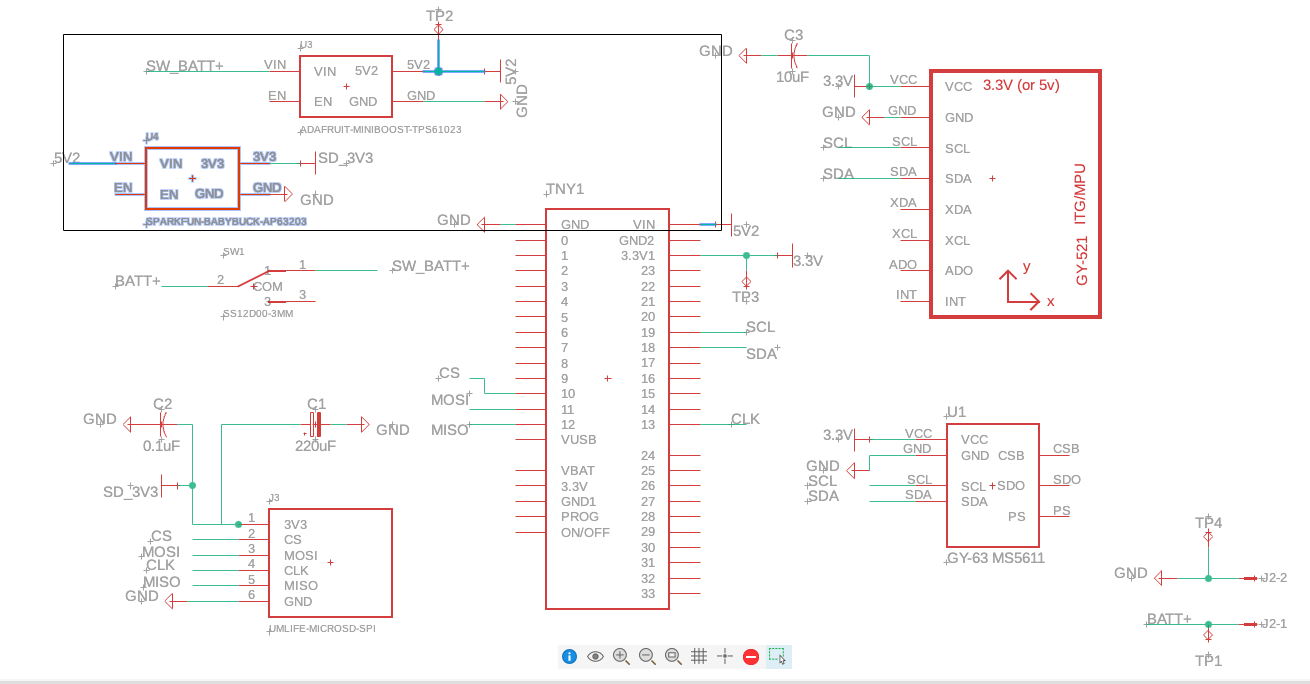
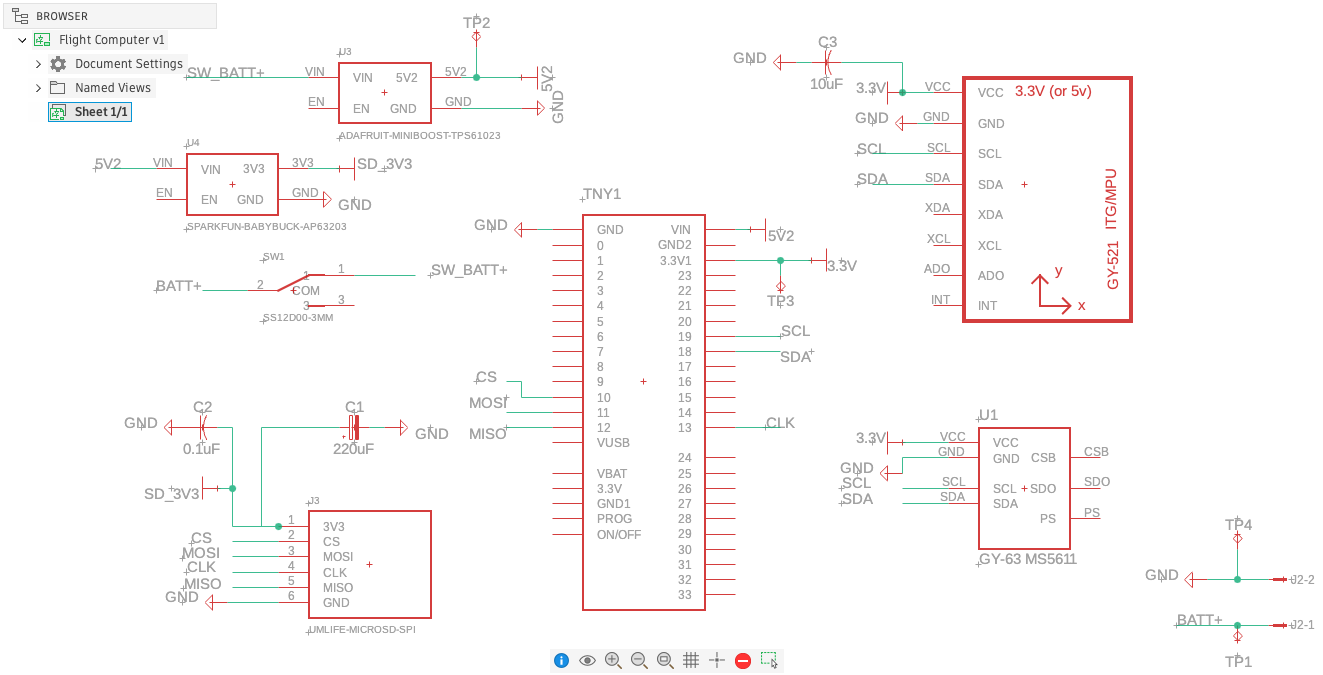
Replace design previews with clearer supplied Fusion screenshots

diff --git a/docs/flying-blind.html b/docs/flying-blind.html
@@ -7,7 +7,7 @@
 <article><span class="version">V3</span><h3>Custom PCB</h3><p>Teensy 4.0, a schematic and PCB laid out in Autodesk Fusion, soldered breakout boards, battery power, and an on/off switch.</p><p class="small">Learning circuit layout and mechanical integration.</p></article>
 <article><span class="version">Next</span><h3>TVC electronics</h3><p>Teensy 4.1, upgraded components, servo connections, and lights and buttons for feedback and input.</p><p class="small">In development; software revisions are ongoing.</p></article></div></section>
 <section class="wrap section"><div class="photo-pair"><figure class=""><img src="assets/v3-detail2.jpg" alt="Component side of the unpopulated Flying Blind V3 PCB" loading="lazy" width="900" height="1200"><figcaption>V3 PCB component layout before assembly.</figcaption></figure><figure class=""><img src="assets/v3-detail.jpg" alt="Trace side of the Flying Blind V3 PCB" loading="lazy" width="900" height="1200"><figcaption>The reverse side shows the routed connections and soldered joints.</figcaption></figure></div><div class="prose"><h2>Making an avionics sled</h2><p>For V3, I made a 3D-printed electronics-bay sled to hold the computer inside the Green Eggs test rocket. This connected the circuit-board work to a physical integration problem: fitting and mounting the computer inside the rocket.</p></div></section>
-<section class="wrap section" id="design-files"><p class="eyebrow">Design evidence / Source downloads</p><h2>Schematics and PCB layouts</h2><p class="prose">These are the supplied Autodesk Fusion design snapshots. Each full archive contains the schematic and PCB; the individual documents below were extracted from those archives. The TVC computer remains in development.</p><h3>Flying Blind V3</h3><figure class="design-image"><a href="assets/flying-blind-v3-schematic.png"><img src="assets/flying-blind-v3-schematic.png" alt="Flying Blind V3 schematic showing the Teensy, sensors, microSD connections, and power circuitry" loading="lazy" width="1310" height="684"></a><figcaption>V3 schematic. Open the image for a larger view; the PCB photographs above show the manufactured board.</figcaption></figure><div class="evidence-links"><a href="evidence/flying-blind-v3-fusion.f3z" download>V3 complete Fusion archive</a><a href="evidence/flying-blind-v3.fsch" download>V3 Fusion schematic</a><a href="evidence/flying-blind-v3.fbrd" download>V3 Fusion PCB</a><a href="evidence/flying-blind-v3.sch" download>V3 schematic XML (.sch)</a><a href="evidence/flying-blind-v3.brd" download>V3 board XML (.brd)</a></div><h3 class="design-subheading">TVC flight computer</h3><div class="photo-pair design-pair"><figure><a href="assets/flying-blind-tvc-pcb-top.png"><img src="assets/flying-blind-tvc-pcb-top.png" alt="Top view of the TVC flight computer PCB showing traces, pads, and component labels" loading="lazy" width="5584" height="2640"></a><figcaption>TVC PCB top view from the supplied board production package. Open the image to inspect details.</figcaption></figure><figure><a href="assets/flying-blind-tvc-pcb-bottom.png"><img src="assets/flying-blind-tvc-pcb-bottom.png" alt="Bottom view of the TVC flight computer PCB routing" loading="lazy" width="5584" height="2640"></a><figcaption>TVC PCB bottom view from the same package.</figcaption></figure></div><figure class="schematic-preview"><img src="assets/flying-blind-tvc-schematic-preview.png" alt="Overview thumbnail of the TVC schematic extracted from its Fusion document" loading="lazy" width="256" height="256"><figcaption>TVC schematic thumbnail embedded in the Fusion archive. Download the schematic below for full detail.</figcaption></figure><div class="evidence-links"><a href="evidence/flying-blind-tvc-fusion.f3z" download>TVC complete Fusion archive</a><a href="evidence/flying-blind-tvc.fsch" download>TVC Fusion schematic</a><a href="evidence/flying-blind-tvc.fbrd" download>TVC Fusion PCB</a><a href="evidence/flying-blind-tvc.sch" download>TVC schematic XML (.sch)</a><a href="evidence/flying-blind-tvc.brd" download>TVC board XML (.brd)</a><a href="evidence/flying-blind-tvc-gerbers.zip" download>TVC PCB Gerber and drill files</a></div></section>
+<section class="wrap section" id="design-files"><p class="eyebrow">Design evidence / Source downloads</p><h2>Schematics and PCB layouts</h2><p class="prose">These are the supplied Autodesk Fusion design snapshots. Each full archive contains the schematic and PCB; the individual documents below were extracted from those archives. The TVC computer remains in development.</p><h3>Flying Blind V3</h3><figure class="design-image"><a href="assets/flying-blind-v3-schematic.png"><img src="assets/flying-blind-v3-schematic.png" alt="Flying Blind V3 schematic showing the Teensy, sensors, microSD connections, and power circuitry" loading="lazy" width="1323" height="683"></a><figcaption>V3 schematic in Autodesk Fusion. Select the image to open it at full size.</figcaption></figure><figure class="design-image"><a href="assets/flying-blind-v3-pcb.png"><img src="assets/flying-blind-v3-pcb.png" alt="Flying Blind V3 PCB layout in Autodesk Fusion showing traces, pads, and component placement" loading="lazy" width="798" height="514"></a><figcaption>V3 PCB layout in Autodesk Fusion. Select the image to open it at full size.</figcaption></figure><div class="evidence-links"><a href="evidence/flying-blind-v3-fusion.f3z" download>V3 complete Fusion archive</a><a href="evidence/flying-blind-v3.fsch" download>V3 Fusion schematic</a><a href="evidence/flying-blind-v3.fbrd" download>V3 Fusion PCB</a><a href="evidence/flying-blind-v3.sch" download>V3 schematic XML (.sch)</a><a href="evidence/flying-blind-v3.brd" download>V3 board XML (.brd)</a></div><h3 class="design-subheading">TVC flight computer</h3><figure class="design-image"><a href="assets/flying-blind-tvc-schematic.png"><img src="assets/flying-blind-tvc-schematic.png" alt="TVC flight computer schematic in Autodesk Fusion showing Teensy 4.1, sensors, power circuitry, status LEDs, and servo connectors" loading="lazy" width="943" height="682"></a><figcaption>TVC schematic in Autodesk Fusion. Select the image to open it at full size.</figcaption></figure><figure class="design-image"><a href="assets/flying-blind-tvc-pcb.png"><img src="assets/flying-blind-tvc-pcb.png" alt="TVC flight computer PCB layout in Autodesk Fusion showing routing, Teensy 4.1 placement, sensors, and servo connections" loading="lazy" width="1318" height="650"></a><figcaption>TVC PCB layout in Autodesk Fusion. Select the image to open it at full size.</figcaption></figure><div class="evidence-links"><a href="evidence/flying-blind-tvc-fusion.f3z" download>TVC complete Fusion archive</a><a href="evidence/flying-blind-tvc.fsch" download>TVC Fusion schematic</a><a href="evidence/flying-blind-tvc.fbrd" download>TVC Fusion PCB</a><a href="evidence/flying-blind-tvc.sch" download>TVC schematic XML (.sch)</a><a href="evidence/flying-blind-tvc.brd" download>TVC board XML (.brd)</a><a href="evidence/flying-blind-tvc-gerbers.zip" download>TVC PCB Gerber and drill files</a></div></section>
 <section class="wrap section"><div class="lesson"><p class="eyebrow">Flight test / What happened</p><h2>The rocket flew. The logger didn’t record.</h2><p>I flew the Green Eggs rocket carrying Flying Blind V3. After powering on the computer, we needed to reset the software to prepare it for recording. We missed that step, and no flight data was collected.</p><p>For the next attempt, our revised preflight procedure will include the reset and a check that logging has started before launch.</p></div></section>
 <section class="wrap section split"><div><h2>Evidence and current limits</h2></div><div class="prose"><p>The available LOG007 file is a bench/movement recording. It demonstrates recorded sensor output, but it does not show performance during rocket flight. The viewer’s simulated flight is a separate synthetic dataset.</p><div class="evidence-links"><a href="evidence/bench-log.csv" download>Download LOG007 bench recording (CSV)</a></div><p>Current software revisions are being completed and pushed separately. <a href="https://github.com/luna-dales/space-why">Visit the project repository</a> for the evolving codebase.</p></div></section>
 <section class="wrap next"><p class="eyebrow">Next test</p><h2>A flight with verified logging</h2><p>Repeat the Green Eggs flight, confirm recording before launch, and preserve the raw log for analysis. The next attempt is planned for October 10–11, weather permitting.</p><a href="tvc.html">Explore the TVC platform</a></section></main><footer><div><strong>Space Why?</strong><p>Luna Dales / Aerospace engineering</p></div><div><a href="https://github.com/luna-dales/space-why">Project repository</a><p>Project status as of October 6, 2026</p><p>Website developed with help from AI for writing, coding, and layout.</p></div></footer></body></html>

diff --git a/docs/style.css b/docs/style.css
@@ -1,3 +1,5 @@
 :root{--ink:#122335;--muted:#46576a;--blue:#005e9c;--line:#cdd8e2;--paper:#fff;--pale:#eef4f8;--dark:#122335;color-scheme:light}*{box-sizing:border-box}html{scroll-behavior:smooth;scroll-padding-top:1rem}body{margin:0;background:var(--paper);color:var(--ink);font-family:-apple-system,BlinkMacSystemFont,"Segoe UI",sans-serif;font-size:1.0625rem;line-height:1.65}a{color:var(--blue);text-underline-offset:.2em}a:hover{text-decoration-thickness:2px}a:focus-visible,button:focus-visible{outline:3px solid #df7900;outline-offset:5px}img{display:block;max-width:100%;height:auto}h1,h2,h3,p{margin-top:0}h1,h2,h3{line-height:1.12;letter-spacing:-.025em}h1,h2{font-family:Georgia,"Times New Roman",serif;font-weight:400}h1{font-size:clamp(3rem,7vw,6.3rem);margin-bottom:1.3rem}h2{font-size:clamp(2rem,3.8vw,3rem);margin-bottom:1.5rem}h3{font-size:1.45rem;margin-bottom:1rem}p{margin-bottom:1.3rem}.wrap{width:min(1160px,calc(100% - 64px));margin-inline:auto}.skip{position:absolute;top:-80px;left:16px;padding:12px;background:#fff;z-index:100}.skip:focus{top:12px}.site-header{border-bottom:1px solid var(--line)}.header-inner{width:min(1280px,calc(100% - 64px));margin:auto;display:flex;align-items:center;justify-content:space-between;gap:2rem;padding:23px 0}.brand{font-size:1.35rem;font-weight:750;text-decoration:none;color:var(--ink);line-height:1.25}.brand span{display:block;font-size:.875rem;font-weight:400;color:var(--muted);margin-top:5px}nav{display:flex;gap:1.75rem;align-items:center;flex-wrap:wrap}nav a{font-size:.9375rem;color:var(--muted);text-decoration:none;padding:6px 0}nav a[aria-current]{color:var(--ink);box-shadow:0 2px 0 var(--blue);font-weight:650}.eyebrow{display:block;font-size:.875rem;line-height:1.6;font-weight:650;letter-spacing:.075em;text-transform:uppercase;color:var(--blue);margin-bottom:1rem}.hero{display:grid;grid-template-columns:1.1fr .9fr;gap:6%;align-items:center;padding-block:55px}.hero-copy{padding-block:1rem}.intro{font-size:clamp(1.3rem,2.2vw,1.8rem);line-height:1.4;max-width:760px}.hero-copy>p:not(.eyebrow){max-width:590px}.button{display:inline-block;padding:13px 22px;background:var(--ink);color:#fff;text-decoration:none;border:1px solid var(--ink);font-weight:650;margin-top:9px}.button:hover{background:var(--blue)}figure{margin:0}figure img{width:100%;height:500px;object-fit:cover;background:var(--pale)}figcaption{font-size:.875rem;line-height:1.5;color:var(--muted);margin-top:11px}.hero-image img{height:510px;object-position:center 45%}.band{background:var(--pale);border-block:1px solid var(--line)}.status-grid{display:grid;grid-template-columns:repeat(3,1fr);gap:3rem;padding-block:28px}.status-grid .eyebrow{font-size:.8125rem;margin-bottom:5px}.status-grid strong{font-size:1.1rem;display:block}.status-grid p{margin:4px 0 0;font-size:.875rem;color:var(--muted)}.section{padding-block:64px;border-bottom:1px solid var(--line)}.section-heading{max-width:760px;margin-bottom:35px}.project-grid{display:grid;grid-template-columns:repeat(3,1fr);gap:28px}.project{color:var(--ink);text-decoration:none;display:block}.project img{width:100%;height:270px;object-fit:cover}.project>div{padding-top:24px}.project .eyebrow{font-size:.8125rem}.project p{color:var(--muted);font-size:1rem}.text-link{font-weight:650;text-decoration:underline;text-underline-offset:.25em}.project:hover h3{text-decoration:underline}.split{display:grid;grid-template-columns:1fr 1.2fr;gap:8%;align-items:start}.prose{max-width:760px}.prose p:last-child{margin-bottom:0}.dark-section{background:var(--dark);color:#fff;padding-block:64px}.dark-section .eyebrow{color:#aee3ff}.dark-section p{color:#e0ebf3}.small{font-size:.9375rem}.next{padding-block:55px;max-width:1160px}.next p{max-width:830px}.next h2{max-width:900px}.next>a{font-weight:650}.case-heading{padding-block:65px 40px;border-bottom:1px solid var(--line)}.case-heading h1{font-size:clamp(2.8rem,6vw,5rem)}.case-heading .intro{max-width:850px}.status{border-left:3px solid var(--blue);padding-left:16px;color:var(--muted);font-size:1rem;max-width:950px;margin:25px 0 0}.versions{display:grid;grid-template-columns:repeat(4,1fr);gap:25px;margin-top:32px}.versions article{border-top:3px solid var(--blue);padding-top:18px}.version{display:block;font-size:1.2rem;font-weight:750;color:var(--blue);margin-bottom:12px}.versions p{font-size:1rem}.versions .small{font-size:.875rem;color:var(--muted)}.photo-pair{display:grid;grid-template-columns:repeat(2,1fr);gap:30px;margin-block:30px}.photo-pair img{height:430px;object-fit:contain;background:var(--pale)}.lesson{background:var(--pale);border-left:4px solid var(--blue);padding:35px 40px}.lesson p{max-width:850px}.lesson h2{max-width:850px}.lesson p:last-child{margin-bottom:0}.prediction{background:var(--ink);color:#fff;padding:30px}.prediction>.eyebrow{color:#aee3ff}.prediction>strong{display:block;font-size:3.8rem;line-height:1.2;font-weight:500;letter-spacing:-.04em}.prediction>strong span{font-size:1.5rem}.prediction dl{margin-bottom:0;font-size:.9375rem}.prediction dl>div{display:flex;gap:15px;justify-content:space-between;border-top:1px solid #526373;padding-top:9px;margin-top:9px}.prediction dd{margin:0;white-space:nowrap}.evidence-links{display:flex;flex-wrap:wrap;gap:15px 30px;margin-top:30px}.evidence-links a{font-weight:600}.process-grid{display:grid;grid-template-columns:repeat(3,1fr);gap:24px;margin-top:32px}.process-grid img{height:340px;object-fit:contain}.process-grid figcaption{color:var(--ink)}footer{background:var(--pale);border-top:1px solid var(--line);padding:35px max(32px,calc((100% - 1160px)/2));display:flex;gap:35px;justify-content:space-between}footer strong{font-size:1.2rem}footer p{font-size:.875rem;color:var(--muted);margin:5px 0 0}footer a{font-weight:650}@media(max-width:900px){.header-inner{align-items:flex-start;flex-direction:column;gap:15px}nav{gap:24px}.hero{gap:30px}.hero-image img{height:450px}.status-grid{gap:22px}.versions{grid-template-columns:repeat(2,1fr)}.project-grid{gap:20px}.project img{height:230px}.split{gap:5%}.process-grid img{height:270px}}@media(max-width:620px){.wrap,.header-inner{width:calc(100% - 36px)}body{font-size:1rem}nav{gap:12px 23px}nav a{font-size:.875rem}.hero,.split{grid-template-columns:1fr}.hero{padding-block:32px;gap:25px}.hero-image img{height:440px;object-fit:contain;background:var(--pale)}.hero-copy{padding:0}.hero h1{font-size:4rem}.status-grid{grid-template-columns:1fr;gap:20px;padding-block:25px}.project-grid{grid-template-columns:1fr;gap:38px}.project img{height:350px;object-fit:contain;background:var(--pale)}.section{padding-block:42px}.split{gap:25px}.split figure img{height:420px;object-fit:contain}.versions{gap:20px}.versions h3{font-size:1.25rem}.photo-pair{grid-template-columns:1fr;gap:25px}.photo-pair img{height:400px}.process-grid{grid-template-columns:1fr}.process-grid img{height:410px}.lesson{padding:25px 22px}.case-heading{padding-block:40px 30px}.case-heading h1{font-size:3rem}.dark-section{padding-block:42px}.next{padding-block:40px}footer{padding:28px 18px;flex-direction:column;gap:22px}.prediction dl>div{flex-wrap:wrap}}@media(prefers-reduced-motion:reduce){html{scroll-behavior:auto}}@media print{nav,.button{display:none}.wrap{width:100%}.section{padding-block:25px}a{color:var(--ink)}.hero-image img{height:300px}footer{padding:20px}}
 
 .design-image img{height:auto;object-fit:contain;background:#fff}.design-subheading{margin-top:48px}.design-pair img{height:auto;background:#fff}.schematic-preview{max-width:420px}.schematic-preview img{width:256px;height:256px;background:#fff}
+
+.design-image{margin-block:28px}.design-image a{display:block}.design-image img{width:100%;height:auto;object-fit:contain}
